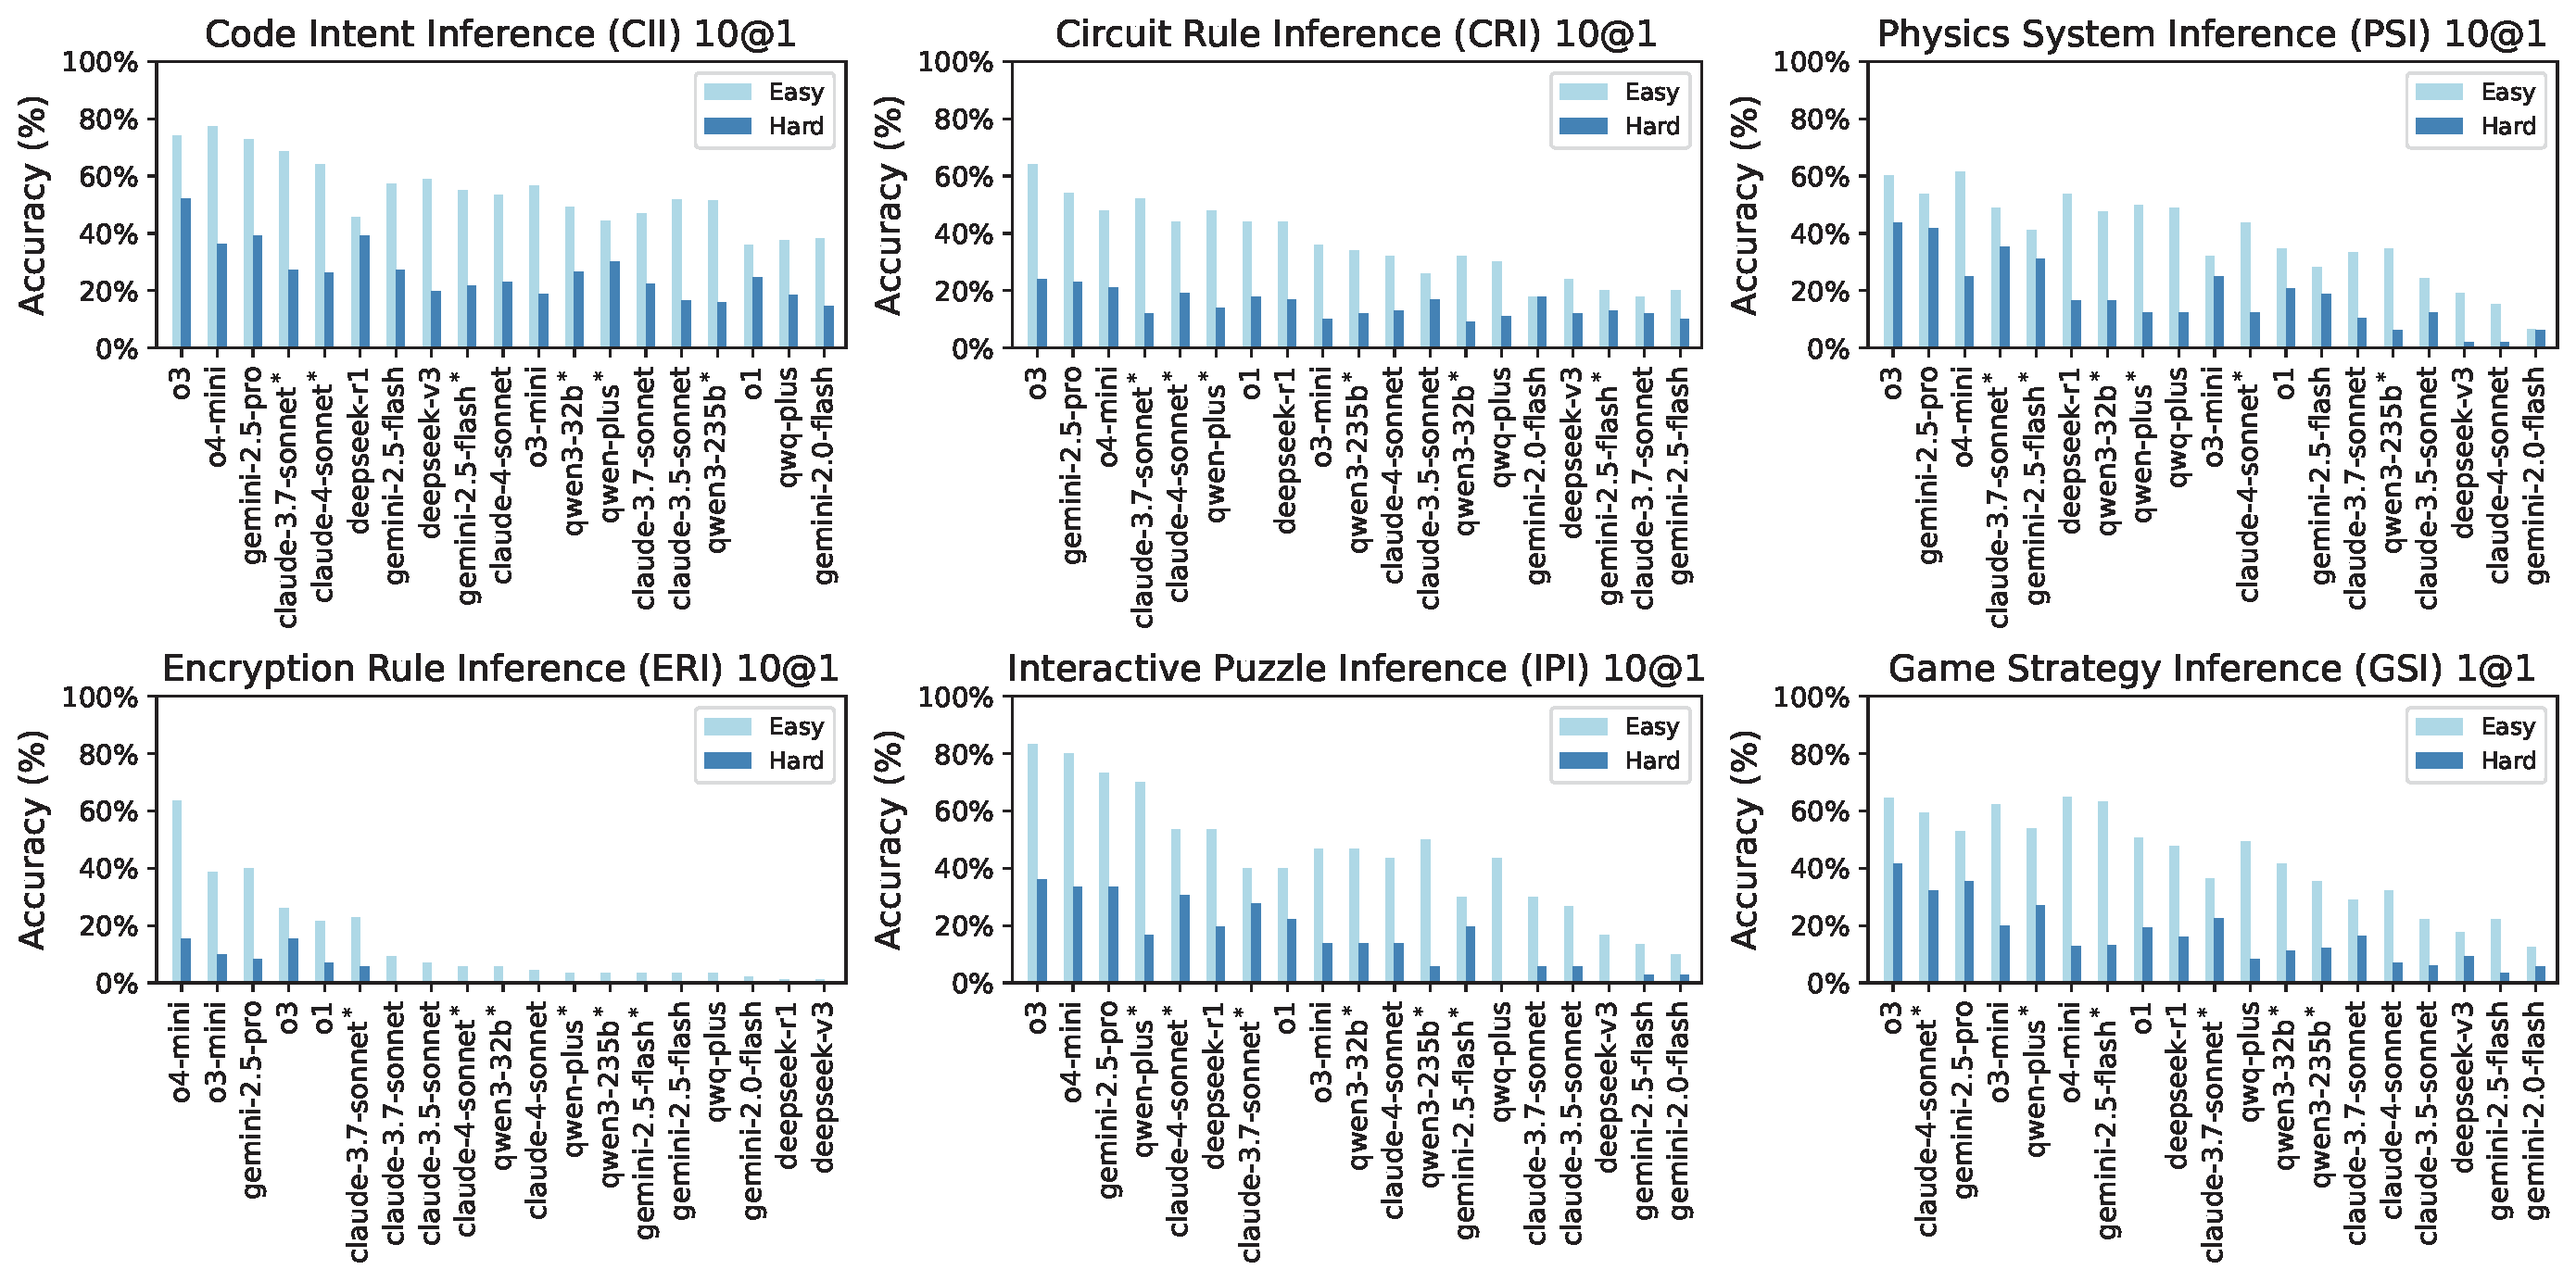
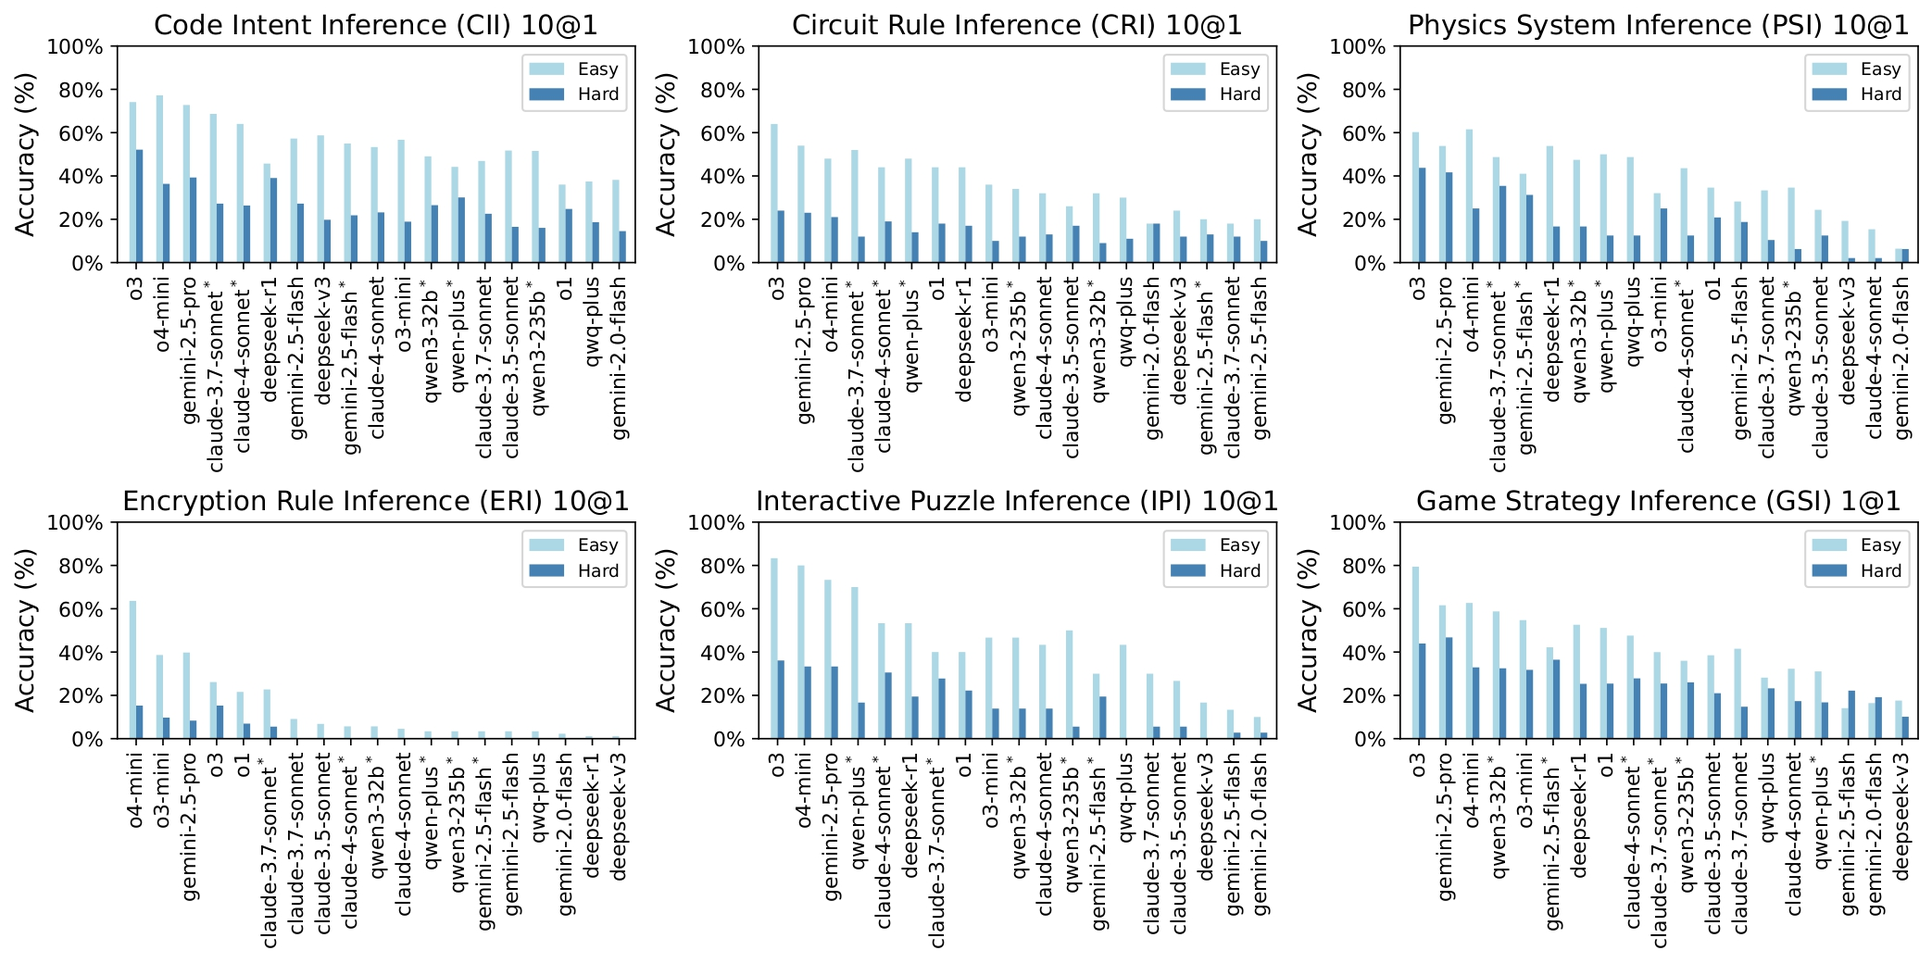
[bug fix]

Changed region(s): [[0.0, 0.0, 0.9971, 0.9846]]

diff --git a/platforms/game/hard/comparing_cards_slice_final.py b/platforms/game/hard/comparing_cards_slice_final.py
@@ -1,0 +1,173 @@
+
+import os
+import sys
+current_path = os.path.abspath(__file__)
+oracle_path = os.path.dirname(os.path.dirname(os.path.dirname(os.path.dirname(current_path))))
+if oracle_path not in sys.path:
+    sys.path.insert(0, oracle_path)
+from eva_models import ReasoningLLM
+
+import random
+import copy
+
+def blackbox(last_result, my_hand, oppo_played, total_cards):
+    """
+    last_result: dict or None, e.g. {'my_card': x, 'oppo_card': y, 'result': 1/-1/0}
+    my_hand: list of int, cards currently in hand
+    oppo_played: list of int, cards opponent has played so far (in order)
+    total_cards: int, total number of cards at start
+    Returns: str, e.g. "card 5"
+    """
+    # Arrange all cards ascending, divide into 4 piles a,b,c,d (smallest to largest)
+    sorted_cards = list(range(1, total_cards+1))
+    n = total_cards
+    pile_size = n // 4
+    remain = n % 4
+    sizes = [pile_size]*4
+    for i in range(remain):
+        sizes[i] += 1
+    a = sorted_cards[:sizes[0]]
+    b = sorted_cards[sizes[0]:sizes[0]+sizes[1]]
+    c = sorted_cards[sizes[0]+sizes[1]:sizes[0]+sizes[1]+sizes[2]]
+    d = sorted_cards[sizes[0]+sizes[1]+sizes[2]:]
+    # For each pile, keep the cards that are still in hand
+    pile_a = [x for x in a if x in my_hand]
+    pile_b = [x for x in b if x in my_hand]
+    pile_c = [x for x in c if x in my_hand]
+    pile_d = [x for x in d if x in my_hand]
+    # Play from b, then d, then a, then c
+    if pile_b:
+        card = random.choice(pile_b)
+    elif pile_d:
+        card = random.choice(pile_d)
+    elif pile_a:
+        card = random.choice(pile_a)
+    elif pile_c:
+        card = random.choice(pile_c)
+    else:
+        # Should not happen, but fallback
+        card = random.choice(my_hand)
+    return f"card {card}"
+
+def platform(settings, player):
+    """
+    settings: dict, must contain 'total_cards': int
+    player: ReasoningLLM instance, must have .normal_output(str) method
+    Returns: int, score of player
+    """
+    # Only 'total_cards' is public
+    total_cards = settings['total_cards']
+    # Initialize hands
+    my_hand = list(range(1, total_cards+1))  # blackbox
+    player_hand = list(range(1, total_cards+1))
+    # History
+    blackbox_played = []
+    player_played = []
+    # Scores
+    player_score = 0
+    # For each turn
+    last_result = None
+    for turn in range(total_cards):
+        # Prepare info for blackbox
+        blackbox_info = (
+            last_result,
+            copy.deepcopy(my_hand),
+            copy.deepcopy(player_played),
+            total_cards
+        )
+        # Prepare info for player: natural language string
+        if last_result is None:
+            last_result_str = "This is the first turn."
+        else:
+            lr = last_result
+            if lr['result'] == 1:
+                outcome = "You won the last turn."
+            elif lr['result'] == -1:
+                outcome = "You lost the last turn."
+            else:
+                outcome = "The last turn was a tie."
+            last_result_str = (
+                f"Last turn: You played card {lr['player_card']}, "
+                f"your opponent played card {lr['oppo_card']}. {outcome}"
+            )
+        player_hand_str = ", ".join(str(x) for x in sorted(player_hand))
+        oppo_played_str = ", ".join(str(x) for x in blackbox_played)
+        prompt = (
+            f"{last_result_str}\n"
+            f"Your current hand: {player_hand_str}.\n"
+            f"Opponent has played: {oppo_played_str if oppo_played_str else 'None'}.\n"
+            f"Total cards in the game: {total_cards}.\n"
+            f"Please choose a card from your hand to play this turn. "
+            f"Reply in the format: 'card x', where x is a number in your hand."
+        )
+        # Get actions
+        blackbox_action = blackbox(*blackbox_info)
+        player_action = player.normal_output(prompt)
+        # Validate player action
+        valid = False
+        while not valid:
+            # Check format: must be "card x" where x is int in player_hand
+            if isinstance(player_action, str):
+                parts = player_action.strip().lower().split()
+                if len(parts) == 2 and parts[0] == "card":
+                    try:
+                        x = int(parts[1])
+                        if x in player_hand:
+                            valid = True
+                            player_card = x
+                        else:
+                            warn = (
+                                f"Invalid card: {x} is not in your hand. "
+                                f"Your hand: {player_hand_str}. "
+                                f"Please reply in the format: 'card x', where x is a number in your hand."
+                            )
+                            player_action = player.normal_output(warn)
+                    except:
+                        warn = (
+                            f"Invalid format. Please reply in the format: 'card x', "
+                            f"where x is a number in your hand. Your hand: {player_hand_str}."
+                        )
+                        player_action = player.normal_output(warn)
+                else:
+                    warn = (
+                        f"Invalid format. Please reply in the format: 'card x', "
+                        f"where x is a number in your hand. Your hand: {player_hand_str}."
+                    )
+                    player_action = player.normal_output(warn)
+            else:
+                warn = (
+                    f"Invalid format. Please reply in the format: 'card x', "
+                    f"where x is a number in your hand. Your hand: {player_hand_str}."
+                )
+                player_action = player.normal_output(warn)
+        # Blackbox action is always valid
+        blackbox_card = int(blackbox_action.strip().split()[1])
+        # Remove played cards from hands
+        my_hand.remove(blackbox_card)
+        player_hand.remove(player_card)
+        blackbox_played.append(blackbox_card)
+        player_played.append(player_card)
+        # Judge
+        if player_card > blackbox_card:
+            player_score += 1
+            result = 1
+        elif player_card < blackbox_card:
+            player_score -= 1
+            result = -1
+        else:
+            result = 0
+        last_result = {
+            'player_card': player_card,
+            'oppo_card': blackbox_card,
+            'result': result
+        }
+    return player_score
+
+def main(model_family, model_name, task, eva_mode, n_runs, difficulty, task_id, failure_num, output_dir, max_turns, version, mode, thinking_mode):
+    player = ReasoningLLM(model_family, model_name, task, eva_mode, n_runs, difficulty, task_id, thinking_mode, mode)
+    player.evaluate(failure_num, version, max_turns)
+    player.save_history(output_dir, version)
+
+if __name__ == "__main__":
+    args = sys.argv[1:]
+    main(args[0], args[1], args[2], args[3], int(args[4]), args[5], args[6], int(args[7]), args[8], int(args[9]), int(args[10]), args[11], bool(eval(args[12])))
